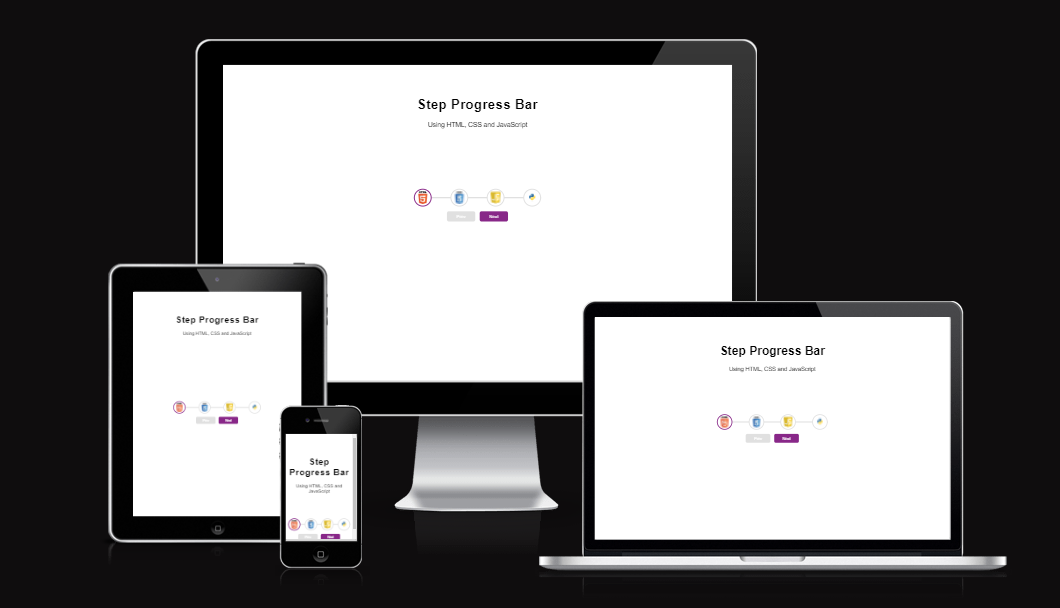
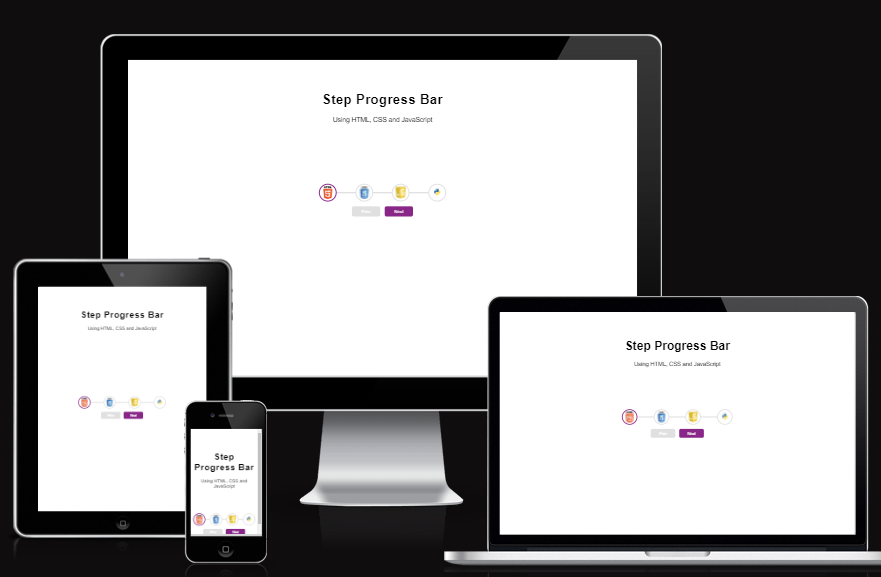
Uploaded new image for responsive imaga and add live site link

diff --git a/README.md b/README.md
@@ -1,7 +1,9 @@
 <h1 align="center">Step Progress Bar</h1>
 
 <p align="center">
-<img src="assets/progress-bar-responsive-img.png" width="600" height="100%">
+<img src="assets/progress-bar-responsive-img.png" width="900" height="100%">
 </p>
+
+You can view the deployed website [here]( https://iris-smok.github.io/Creating-The-Steps/)
 
 This is a project number 2 from "50 projects In 50 Days" from Udemy Academy online course. Project is made with HTML, CSS and JavaScript.
